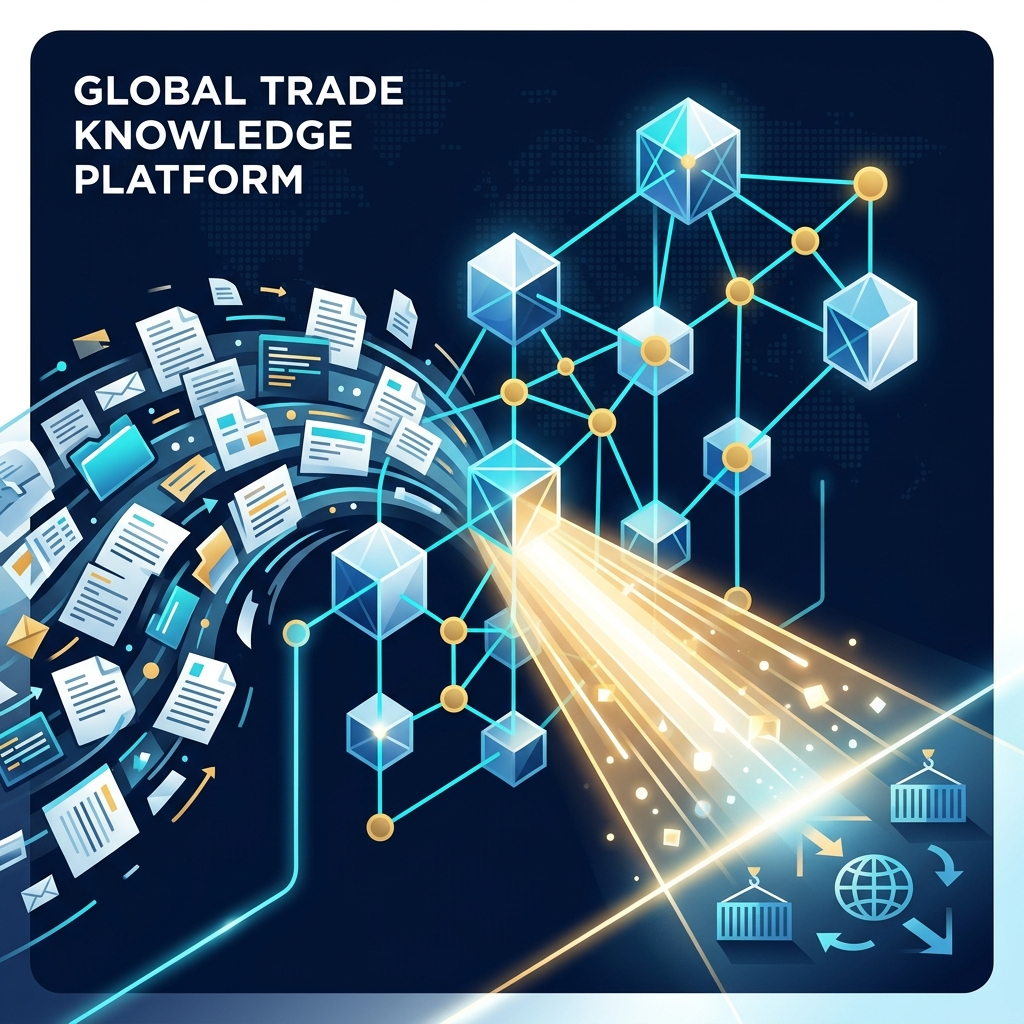
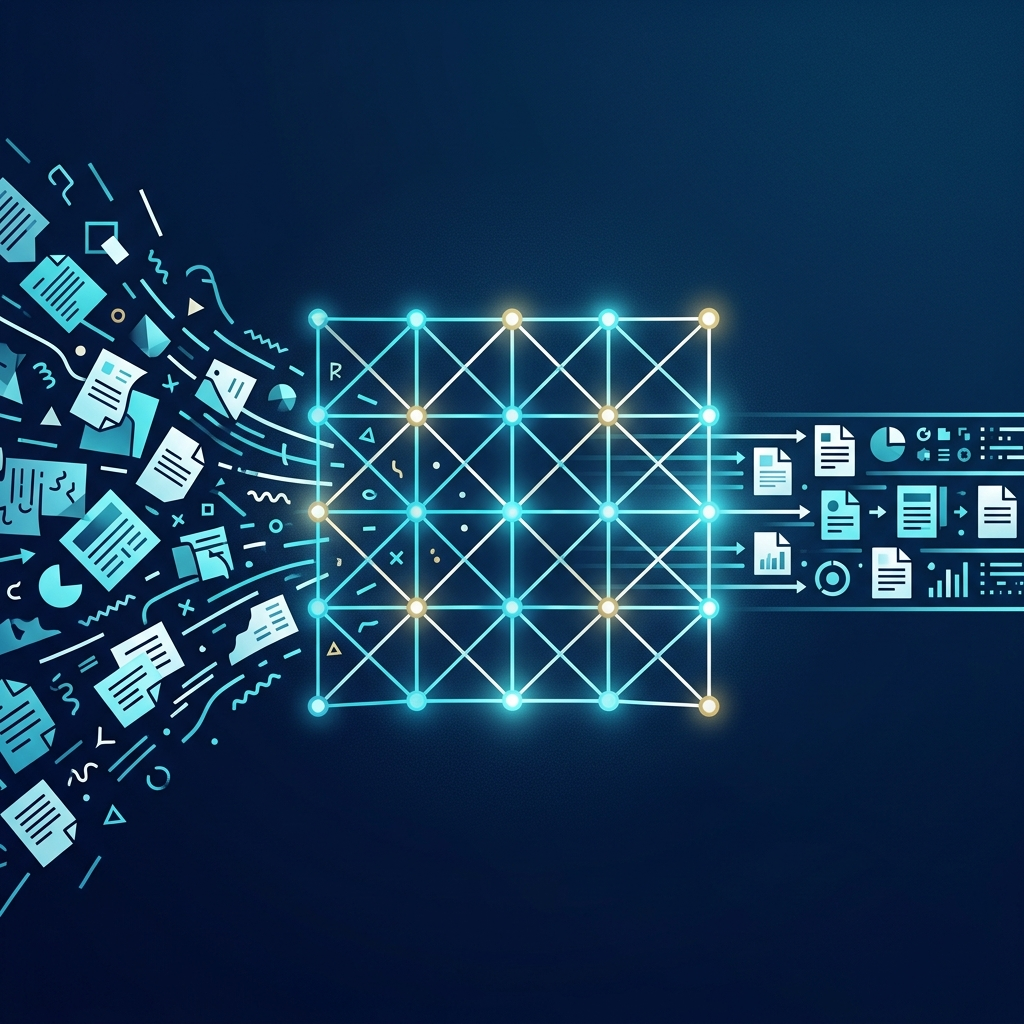
Publish: KnowledgeSlot schema series Parts 1 and 2 (revised + new)

diff --git a/blog/posts/why-industry-context-closes-deals.md b/blog/posts/why-industry-context-closes-deals.md
@@ -3,16 +3,16 @@
 ---
 title: "Workshop Notes: Why a Semantic Match Is Not Enough"
 date: 2026-04-06
-slug: why-industry-context-closes-deals
 stream: workshop-notes
-tags: [thin-markets, market-design, knowledgeslot, ai, cosolvent, marketforge, explainer]
-summary: Semantic matching tells you two parties could do business. Industry context tells you whether they actually can — and shows them how.
-estimated-read: 7 min read
+tags: [thin-markets, market-design, knowledgeslot, clientsynth, ai, cosolvent, marketforge, explainer]
+summary: Semantic matching tells you two parties could do business. Industry context tells you whether they actually can — and shows them how. The schema that makes retrieval reliable is also what makes matching actionable.
+estimated-read: 10 min read
+slug: why-industry-context-closes-deals
 ---
 
 <figure class="blog-hero">
-  <img class="blog-hero__img" src="../images/blog/why-industry-context-closes-deals-hero.png" alt="Two cargo ships moored on opposite sides of a waterway at dusk, with glowing documents drifting in the gap between them" loading="lazy">
-  <figcaption>The match is visible. The bridge is not yet built.</figcaption>
+  <img class="blog-hero__img" src="../images/blog/why-industry-context-closes-deals-hero.png" alt="Negotiation made possible by shared knowledge infrastructure." loading="lazy">
+  <figcaption>Negotiation made possible by shared knowledge infrastructure.</figcaption>
 </figure>
 
 There is a moment in every thin market that feels like the hard part is over.
@@ -45,7 +45,7 @@ Which contract template governs the trade? GAFTA No. 27 uses CIF terms with spec
 
 These are not edge cases. They are the normal operating conditions of international commodity trading. And they are not visible in a semantic match — because they live in the domain knowledge that surrounds the transaction, not in the transaction itself.
 
-The whitepaper frames this as part of a broader problem it calls **opacity**: the ways in which information is hidden, distorted, or costly to obtain. One dimension of opacity is strategic — parties withhold information they possess. But another dimension is structural: **the information exists somewhere, but neither party knows where to find it, or whether what they find applies to their specific corridor.**
+The whitepaper frames this as part of a broader problem it calls **opacity**: the ways in which information is hidden, distorted, or costly to obtain. One dimension of opacity is strategic — parties withheld information they possess. But another dimension is structural: **the information exists somewhere, but neither party knows where to find it, or whether what they find applies to their specific corridor.**
 
 Semantic matching does not fix structural opacity. It finds the match. It cannot give either party the domain knowledge needed to close it.
 
@@ -123,6 +123,54 @@ Industry context is what lets them actually talk — and what converts a structu
 
 KnowledgeSlot is DeeperPoint's answer to that second problem. It is what the matching engine reaches for when the other party says "I'm interested — tell me more."
 
+## From Compatibility to Feasibility
+
+This is where the schema architecture described in the companion piece to this article becomes directly operational.
+
+When the Cosolvent matching engine evaluates a potential deal, it is not running a single similarity search. It is coordinating three distinct information sources, each tagged against the same controlled metadata vocabulary:
+
+1. **User Context** — the declared profiles and capability descriptions of the two parties, held in the Context Slot and scoped to what each party has agreed to share.
+2. **Semantic Matching** — Cosolvent's core function: identifying latent alignment between the parties' qualitative needs and capabilities, surfacing pairings that would not appear in a criteria-based filter.
+3. **Industry Context** — the authoritative regulatory, technical, and structural constraints retrieved from KnowledgeSlot, scoped to the specific corridor and product category of the potential transaction.
+
+Because all three sources draw from the same controlled vocabulary, the match is not evaluated in isolation. Cosolvent can ask not just *are these two parties semantically compatible?* but *does KnowledgeSlot's industry context indicate any structural barrier to this specific transaction?* A grain seller and a flour mill may align perfectly on product and scale, but if the destination country's phytosanitary requirements are not met by the seller's certified protocol, the match is structurally incomplete — and the system can surface that gap before the parties invest time in a conversation that will stall on exactly that point.
+
+This is the shift from compatibility to feasibility. Because the participant profiles and the industry constraints are schema-aligned, the matching process itself produces the grounding needed to articulate why a deal combination makes practical sense — or why it does not, and what would have to be resolved for it to work.
+
+The same schema alignment extends to ClientSynth, DeeperPoint's synthetic agent simulator. When a thin market platform is being tested before launch, the schema defines the categorical space within which synthetic profiles are generated. ClientSynth-generated agents land in the same matchable positions as eventual real-world participants — meaning the simulation exercises the actual routing logic of the matching engine, not a simplified approximation of it.
+
+## Opening the Conversation
+
+Even when a match is structurally sound and practically feasible, something still has to get the conversation started.
+
+This is a subtler problem than it appears. In thin B2B markets, first contact between parties who have never transacted carries real risk — reputational, financial, and informational. Each side has to reveal something about themselves to engage: their requirements, their constraints, their flexibility. In markets where participants are few and relationships are long, the opening move matters. A poorly framed first question can signal inexperience, expose a negotiating position, or simply fail to communicate the seriousness of a genuine interest. Many structurally viable deals stall precisely here, before the domain knowledge problem ever has a chance to help.
+
+The Generative Match Story is a feature designed for this moment.
+
+Once a match has been identified as structurally sound, either party can trigger the system to generate a brief, deal-specific narrative — a scenario describing how this particular buyer and this particular seller could work together. The narrative is not a template or a contract draft. It is generated by a language model working from three grounded inputs: the matched participants' schema-aligned profiles (what each party has disclosed about their capabilities and needs), the KnowledgeSlot-retrieved regulatory and contractual context for the specific corridor, and the semantic alignment analysis that produced the match in the first place.
+
+Because the inputs are specific, the narrative is specific. It does not describe a generic grain transaction between a generic Canadian seller and a generic Philippine mill. It describes how this seller's certified non-GMO durum wheat, documented to Canadian Grain Commission standards, could move under a GAFTA No. 27 CIF Manila contract to meet the mill's declared protein specification — including what phytosanitary documentation would be required and which quality arbitration body would govern a dispute. The scenario is written in plain language, not regulatory jargon, because its function is to give both parties a shared model of the transaction to talk about.
+
+This matters for two reasons rooted in how negotiations actually fail.
+
+The first is **anchoring asymmetry**. When two parties open a negotiation without a shared reference point, they typically anchor to their own preferred scenario — and spend the first phase of negotiation defending those starting positions rather than discovering where the real alignment lies. A neutral, system-generated scenario that neither party authored gives them something to react to together, which is categorically different from reacting to each other's opening offers.
+
+The second is the **competence signal problem** described earlier. Participants who are unwilling to reveal domain knowledge gaps will disengage rather than ask clarifying questions. A generated scenario that incorporates the domain knowledge accurately — and transparently attributes it to the marketplace's reference library — lets both parties engage with the substantive terms of a potential deal without either side having to demonstrate expertise they may not have.
+
+The result is a first conversation that begins on shared ground rather than opposing positions. The scenario is a hypothesis, not a proposal. Either party can correct it, refine it, or use it to identify the specific dimensions that need further negotiation. But it gives both parties something concrete to work from — and that is often enough to get the deal moving.
+
+## What This Looks Like in Practice
+
+In the grain trading vertical that KnowledgeSlot is currently building for, the reference library spans GAFTA contract standards, Canadian Grain Commission grading and measurement protocols, and destination-country regulatory requirements for several major import markets. The schema that structures that library — the controlled vocabulary of trade corridors, product categories, document types, and issuing bodies — is the same vocabulary that structures participant profiles in Cosolvent and synthetic agents in ClientSynth.
+
+When the matching engine pairs a Saskatchewan seller with a Philippine flour mill, the feasibility check runs against that shared schema. If the seller's declared certifications align with the destination market's requirements as documented in KnowledgeSlot, the match is confirmed as practically viable. If there is a gap — say, the seller's phytosanitary certification protocol differs from the one the destination country requires — the system surfaces that gap as part of the match report rather than after three weeks of negotiation.
+
+If either party requests a Generative Match Story, the system produces a scenario that accurately describes a transaction consistent with both parties' profiles and the applicable KnowledgeSlot constraints. The parties open their conversation by discussing the scenario's assumptions — agreeing with some, correcting others, and using the gaps as the natural agenda for their first substantive exchange.
+
+Semantic matching gets the right parties into the room. Industry context gives them the shared vocabulary to negotiate. The Generative Match Story gives them something to negotiate about from the moment they meet.
+
+That is the full architecture — and the schema is the thread that runs through all of it.
+
 ---
 
-*KnowledgeSlot is one of four components in DeeperPoint's thin market engineering toolkit. The theoretical foundation for the industry context problem is developed in the [DeeperPoint whitepaper](../whitepaper.html). The full architecture of how KnowledgeSlot fits into the Cosolvent marketplace harness is described on the [MarketForge](../marketforge.html) page.*
+*This article is the companion to [Workshop Notes: How KnowledgeSlot Keeps Its Answers Relevant](knowledgeslot-schema-scoped-rag.html), which covers the schema architecture that makes domain-specific retrieval reliable. The theoretical foundation is developed in the [DeeperPoint whitepaper](../whitepaper.html). The full architecture of how KnowledgeSlot fits into the Cosolvent marketplace harness is described on the [MarketForge](../marketforge.html) page.*

diff --git a/blog/posts/knowledgeslot-schema-scoped-rag.md b/blog/posts/knowledgeslot-schema-scoped-rag.md
@@ -4,9 +4,9 @@
 title: "Workshop Notes: How KnowledgeSlot Keeps Its Answers Relevant"
 date: 2026-04-06
 stream: workshop-notes
-tags: [thin-markets, market-design, knowledgeslot, ai, cosolvent, explainer]
+tags: [thin-markets, market-design, knowledgeslot, clientsynth, ai, cosolvent, explainer]
 summary: A reference library without a metadata schema returns semantically similar text. A reference library with one returns contextually appropriate answers. The difference is the schema — and how it grows.
-estimated-read: 8 min read
+estimated-read: 5 min read
 slug: knowledgeslot-schema-scoped-rag
 ---
 
@@ -83,38 +83,10 @@ The Context Slot holds participant-supplied documents — profiles, capability d
 
 The architectural guardrail is that both schemas must draw from the same controlled vocabulary for these shared concepts. "Canada" in a participant's country-of-origin field and "Canada" in a reference document's `origin_region` tag are the same token. This shared vocabulary is what makes cross-slot retrieval possible in the future — queries that span participant profiles and the reference library in a single search, using the same embedding model and the same metadata dimensions.
 
-The schema is not just a filtering tool. It is the connective tissue that makes the two-slot retrieval architecture coherent.
+The shared vocabulary guardrail also applies to ClientSynth, DeeperPoint's synthetic agent simulator. When bootstrapping or testing a thin market platform, the schema defines the categorical space within which synthetic profiles are generated — their declared geographies, product categories, and capability types. This means ClientSynth-generated agents land in the same matchable positions as eventual real-world participants, and Cosolvent can route them consistently. Schema conformance doesn't replicate a participant's business judgement or negotiation history — but it does ensure the synthetic population inhabits the right corners of the market's structure.
 
-## Synthesizing the Match: Where Knowledge Meets Context
-
-The true power of this shared metadata schema becomes evident when a marketplace uses Cosolvent to identify potential deals. In a thin market, traditional matching relies on exact criteria overlaps. A Cosolvent-powered architecture instead relies on a tri-part interaction:
-
-1.  **User Context:** The declared profiles and capability descriptions of the two parties (managed via the Context Slot).
-2.  **Semantic Matching:** Cosolvent's ability to identify latent or non-obvious alignment between the parties' qualitative needs and capabilities.
-3.  **Industry Context:** The authoritative regulatory, technical, and structural constraints provided by KnowledgeSlot.
-
-Because all three components rely on a shared metadata vocabulary, the system can evaluate a potential match not just on semantic similarity, but on practical feasibility. The metadata schema acts as the Rosetta Stone. It allows Cosolvent to ask: *Do these two participants align on product capabilities? And if they do, does KnowledgeSlot's industry context indicate any insurmountable regulatory hurdles for their specific jurisdictions?* 
-
-When the schema aligns across all these dimensions, the system isolates deal combinations that don't just look good in theory, but make practical sense given the structure of the market. It can explain *why* the match works, citing both the participants' profiles and the underlying industry rules that validate the transaction.
-
-## The Generative Match Story: A Neutral Starting Point
-
-Once a practically viable match is surfaced, the participants still face the challenge of initiating a complex conversation. To bridge this gap, the platform can deploy a conceptual tool layered on top of the aligned information: the Generative Match Story.
-
-When a promising match is identified, either prospective party can request the system to generate a narrative scenario illustrating how they could effectively work together. Drawing on the Cosolvent semantic alignment, the specific user contexts, and the KnowledgeSlot industry constraints, the system crafts a brief, realistic "story."
-
-The content and format resemble a conversational use-case vignette (similar to a "Market Scenario" post). It doesn't write a contract or prescribe terms. Instead, it narrates a hypothetical successful transaction—from initial need to final satisfaction—incorporating the specific constraints and capabilities of both participants. 
-
-This story serves a crucial market engineering function: it allows participants to start their discussions from a neutral, objectified scenario rather than defensively negotiating from their own starting positions. It translates abstract alignment and regulatory compliance into an easy-to-understand vision of mutual success, significantly lowering the friction of initial engagement.
-
-## What This Looks Like in Practice
-
-In the grain trading vertical that KnowledgeSlot is currently developing for, the schema has been built from the GAFTA No. 27 contract and is being extended as additional GAFTA contracts, Canadian Grain Commission standards, and destination-country regulatory documents are added. Each new document either maps cleanly onto existing schema dimensions or proposes new values that are reviewed and merged.
-
-When a Canadian seller and a Philippine buyer are matched by Cosolvent, it is because their specialized capabilities align and the shared metadata confirms the trade corridor is viable. If the buyer requests a generative match story, the system will output a narrative of the grain shipment, specifically mentioning how the Canadian seller's product seamlessly meets the Philippine phytosanitary requirements pulled from KnowledgeSlot. The parties then open their conversation by discussing the narrative's assumptions, rather than staring at a blank screen.
-
-The metadata schema is what turns a document library into a domain-aware advisor, and a matching engine into a practical dealmaker. Without it, RAG retrieves what is semantically similar, and matching engines surface what might technically connect. With it, the architecture retrieves what is actually applicable, and surfaces deals that can actually close.
+The schema is not just a filtering tool. It is the connective tissue of the entire platform: it makes the two-slot retrieval architecture coherent, grounds synthetic simulation in the real vocabulary of the market, and — as described in the companion piece — provides the structured foundation on which schema-aware participant matching and deal-specific scenario generation become possible.
 
 ---
 
-*KnowledgeSlot is the domain knowledge component of DeeperPoint's marketplace toolkit. Its relationship to the Cosolvent harness and the matching architecture is described in the [MarketForge](../marketforge.html) overview. The theoretical case for authoritative information as a market engineering intervention is in the [DeeperPoint whitepaper](../whitepaper.html).*
+*KnowledgeSlot is the domain knowledge component of DeeperPoint's marketplace toolkit. This article covers the schema architecture that makes domain-specific retrieval reliable. A companion piece covers how that same schema enables Cosolvent's matching engine and a generative tool that helps matched participants open their first conversation. The theoretical case for authoritative information as a market engineering intervention is in the [DeeperPoint whitepaper](../whitepaper.html).*
